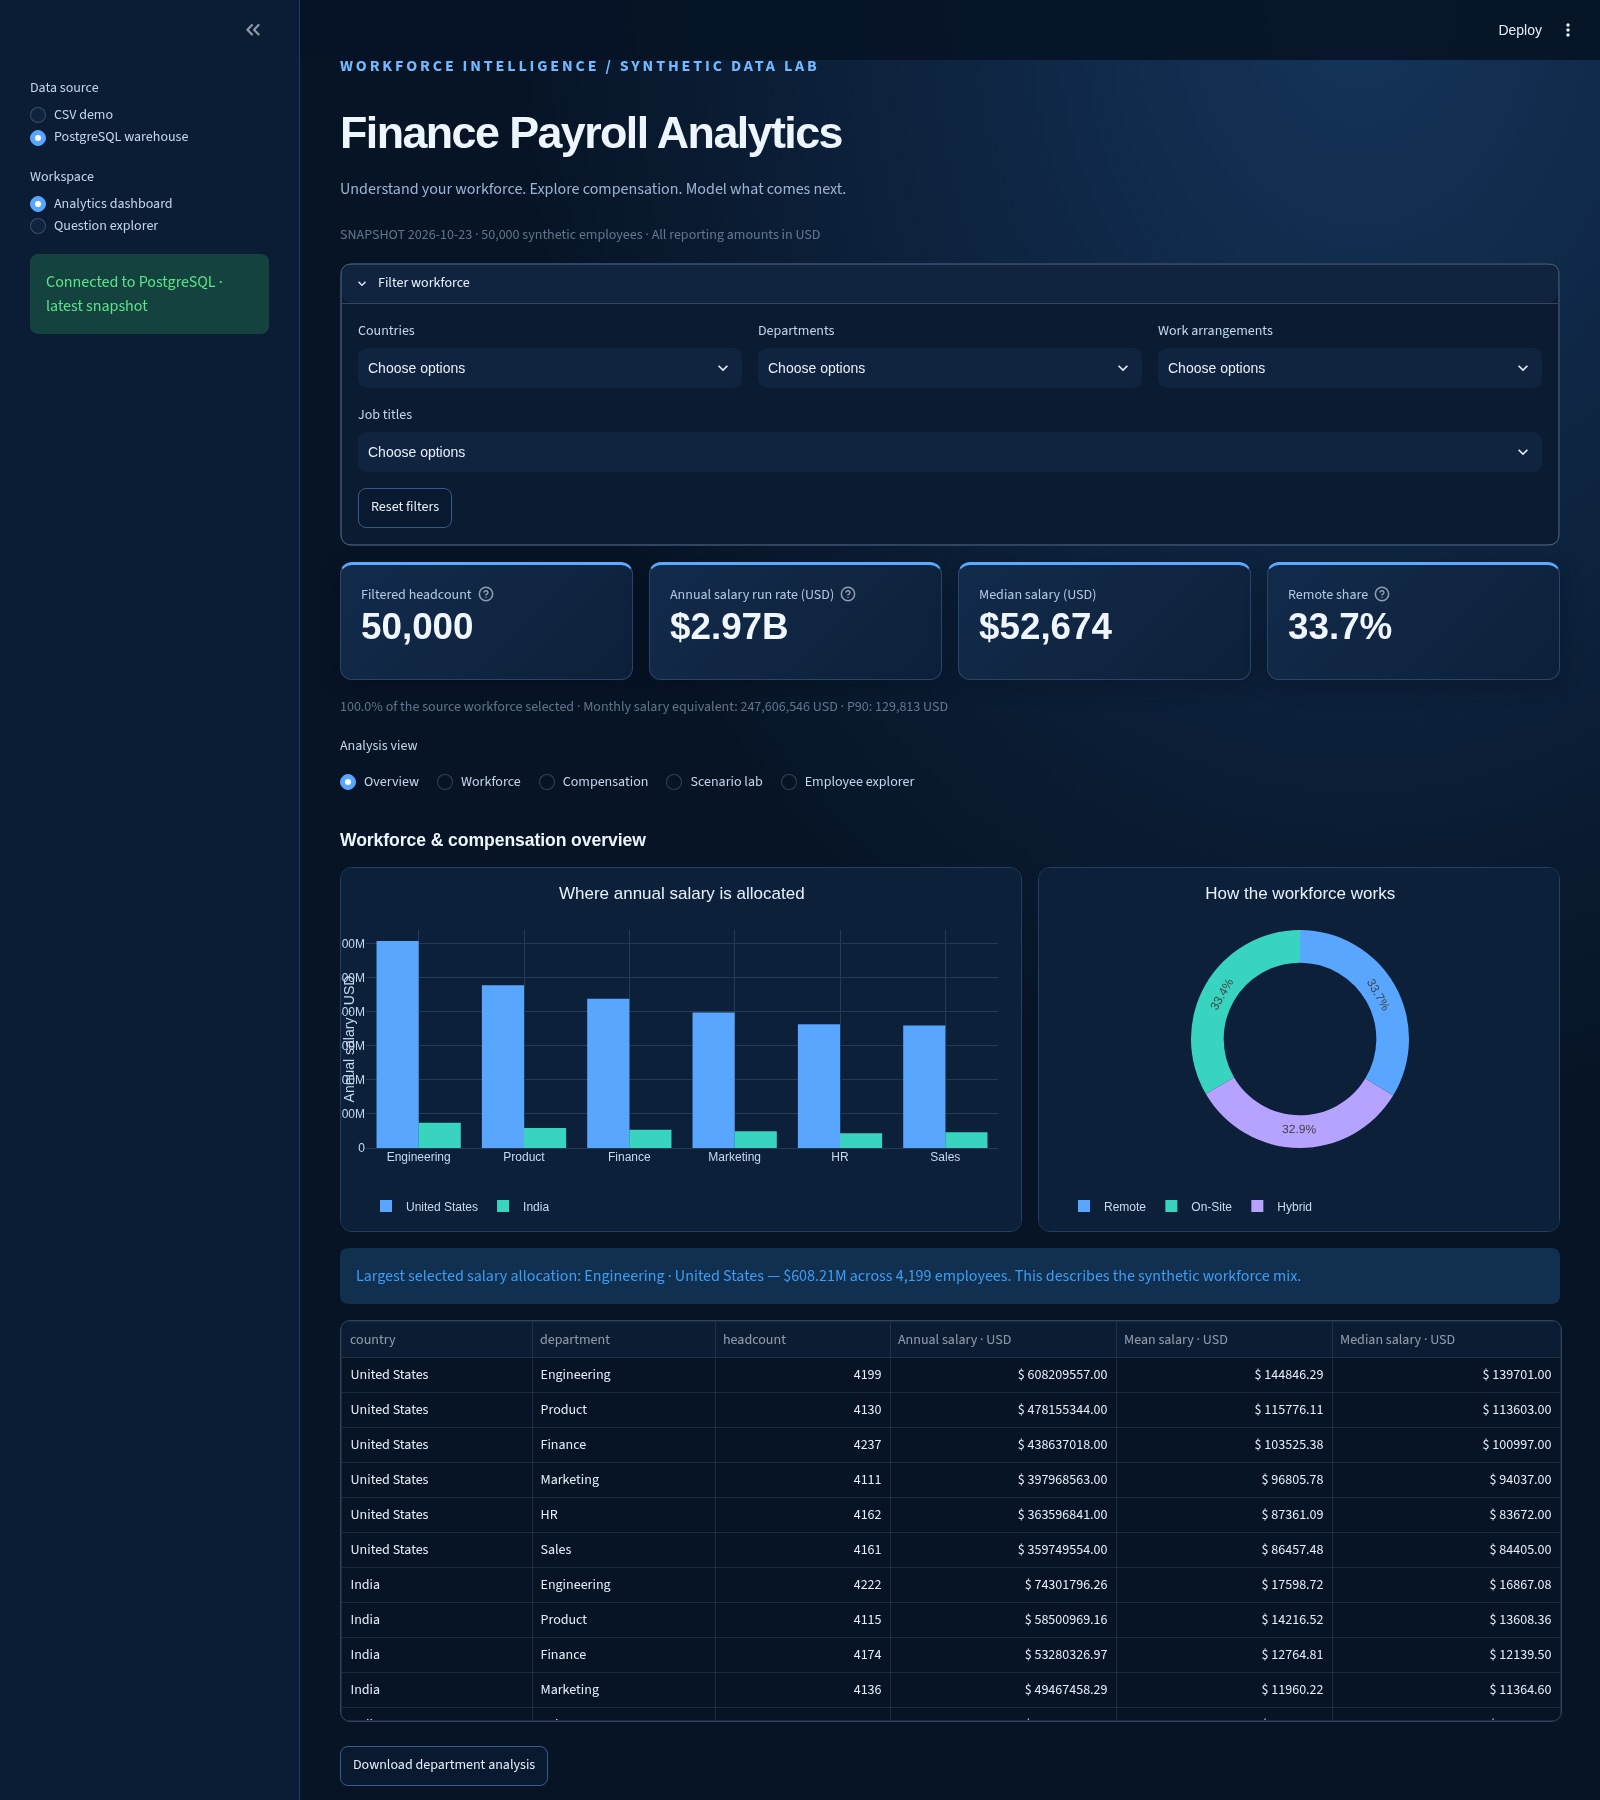
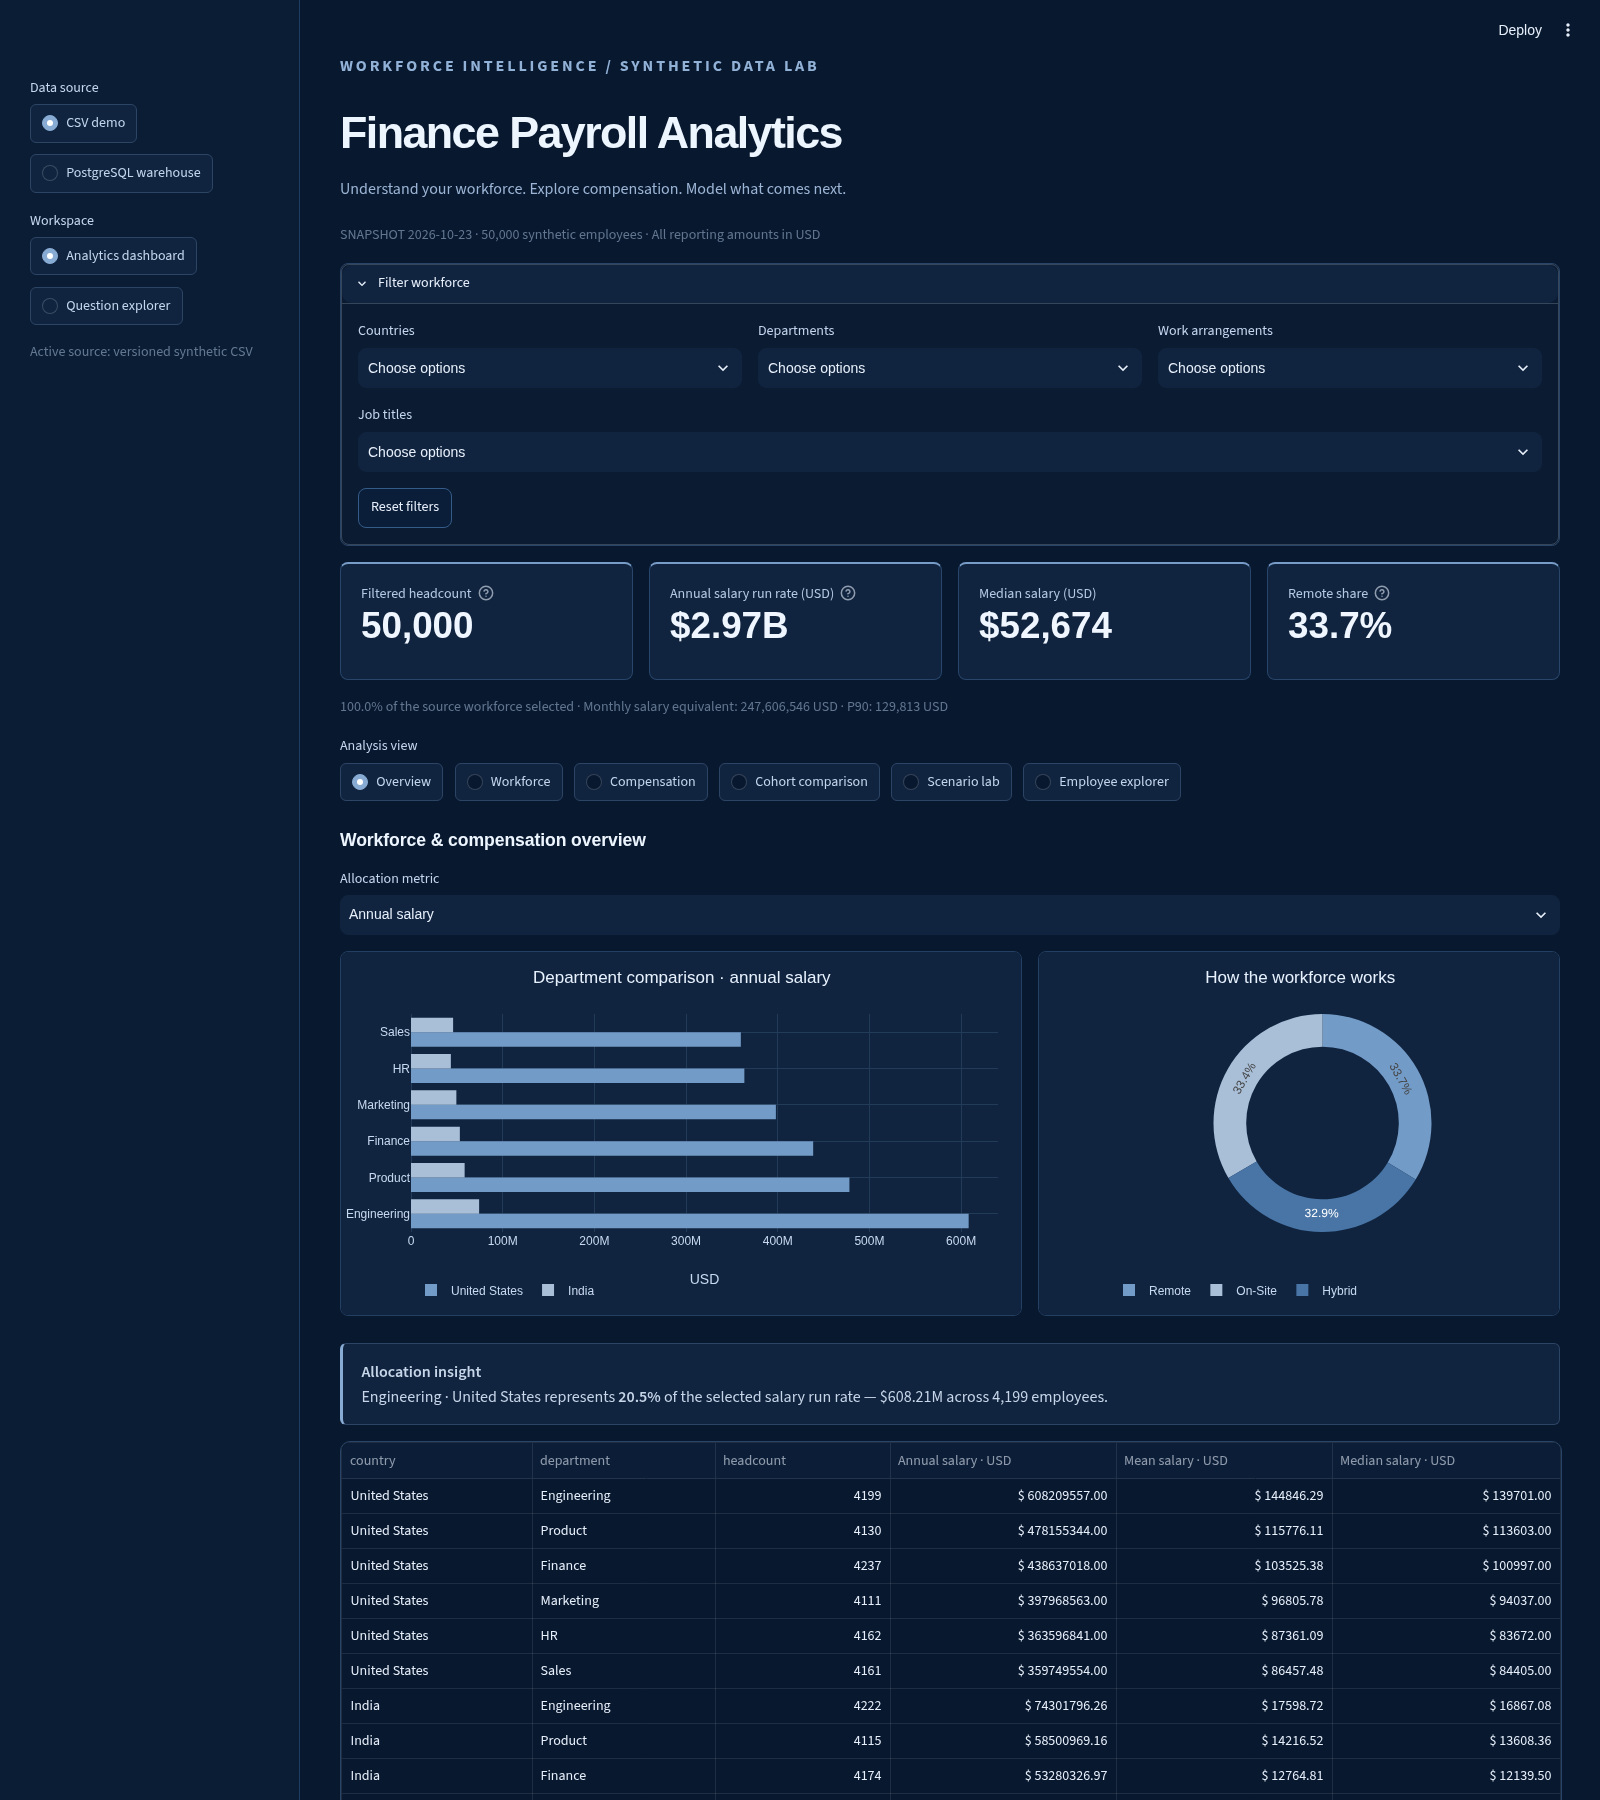
Apply flat navy dashboard styling and add cohort comparison analytics

diff --git a/app/style.css b/app/style.css
@@ -1,26 +1,26 @@
 :root { color-scheme: dark; }
 .stApp {
-    background: radial-gradient(ellipse at 85% 0%, #14345a 0%, transparent 44%), #071426;
+    background: #08182f;
     color: #e7effa;
     font-family: Inter, "Segoe UI", Arial, sans-serif;
 }
 [data-testid="stSidebar"] { background: #0b1d34; border-right: 1px solid #203c60; }
-[data-testid="stHeader"] { background: rgba(7,20,38,.92); }
+[data-testid="stHeader"] { background: #08182f; }
 .block-container { max-width: 1640px; padding: 2.3rem 2.5rem 3rem; }
 h1, h2, h3 { font-family: Inter, "Segoe UI", Arial, sans-serif !important; letter-spacing: -.035em; color: #edf5ff !important; }
 h1 { font-size: clamp(1.8rem, 3vw, 2.8rem) !important; font-weight: 750 !important; margin-bottom: .25rem; }
 h2 { font-size: 1.5rem !important; } h3 { font-size: 1.1rem !important; }
 .subtitle { color: #9cb5d5; font-size: .98rem; margin-bottom: 1.4rem; }
-.eyebrow { color: #72b9ff; text-transform: uppercase; font-size: .7rem; letter-spacing: .18em; font-weight: 700; margin: 0 0 .5rem; }
+.eyebrow { color: #91b1d7; text-transform: uppercase; font-size: .7rem; letter-spacing: .18em; font-weight: 700; margin: 0 0 .5rem; }
 [data-testid="stMetric"] {
-    background: linear-gradient(135deg, #122b4b, #0d2039);
-    border: 1px solid #29466a; border-top: 3px solid #5aaaff;
-    border-radius: 12px; padding: 1.1rem 1.25rem; min-height: 118px;
-    box-shadow: 0 6px 22px #02091240;
+    background: #10243f;
+    border: 1px solid #29466a; border-top: 2px solid #779cc7;
+    border-radius: 8px; padding: 1.1rem 1.25rem; min-height: 118px;
+    box-shadow: none;
 }
 [data-testid="stMetricLabel"] { color: #b4c9e4; font-size: .82rem; }
 [data-testid="stMetricValue"] { color: #f0f6ff; font-size: clamp(1.65rem,2.4vw,2.3rem); font-weight: 650; }
-[data-testid="stExpander"] { border: 1px solid #294466; border-radius: 12px; background: #0b1c32; }
+[data-testid="stExpander"] { border: 1px solid #294466; border-radius: 8px; background: #0b1c32; }
 [data-testid="stExpander"] summary { background: #102440; border-radius: 10px; }
 [data-testid="stRadio"] label, [data-testid="stMultiSelect"] label,
 [data-testid="stSelectbox"] label, [data-testid="stSlider"] label { color: #c4d6ee !important; }
@@ -30,12 +30,27 @@ input, textarea { color: #e7effa !important; -webkit-text-fill-color: #e7effa !i
     border-radius: 8px; border-color: #355b89; font-weight: 600;
 }
 [data-testid="stButton"] button[kind="primary"] { background: #2c7ed6; color: #fff; }
-[data-testid="stPlotlyChart"] { border: 1px solid #233f61; border-radius: 12px; overflow: hidden; }
+[data-testid="stPlotlyChart"] { border: 1px solid #233f61; border-radius: 8px; overflow: hidden; }
 [data-testid="stDataFrame"] { border: 1px solid #294466; border-radius: 10px; overflow: hidden; }
 [data-testid="stCaptionContainer"] { color: #9db4d0; }
-.agent-message { background: #102947; border: 1px solid #31537c; padding: 1.2rem; border-radius: 12px; margin-bottom: 1rem; }
+.agent-message { background: #102947; border: 1px solid #31537c; padding: 1.2rem; border-radius: 8px; margin-bottom: 1rem; }
 hr { border-color: #25405f !important; }
 @media (max-width: 760px) {
     .block-container { padding: 1.2rem 1rem; }
     [data-testid="stMetric"] { min-height: 98px; padding: .8rem; }
 }
+
+/* Solid surfaces throughout: no gradients, glow, transparency or glass effects. */
+[data-testid="stMetric"], [data-testid="stExpander"],
+[data-testid="stPlotlyChart"], [data-testid="stDataFrame"],
+[data-testid="stButton"] button, [data-testid="stDownloadButton"] button {
+    box-shadow: none !important;
+    background-image: none !important;
+    backdrop-filter: none !important;
+}
+[data-testid="stRadio"] [role="radiogroup"] { gap: .7rem; }
+[data-testid="stRadio"] [role="radiogroup"] label {
+    padding: .45rem .7rem; border: 1px solid #2d4565;
+    border-radius: 6px; background: #10243f;
+}
+.insight-card { background: #10243f; border: 1px solid #2d4565; border-left: 3px solid #88abd3; border-radius: 6px; padding: .9rem 1.15rem; margin: .7rem 0 1rem; color: #c6d5e8; }

diff --git a/app/reporting.py b/app/reporting.py
@@ -84,17 +84,28 @@ def compact_money(value):
     return f"${value:,.0f}"
 
 
+def cohort_comparison(frame, department):
+    selected = frame[frame.department.eq(department)]
+    return selected.groupby("country", as_index=False).agg(
+        headcount=("employee_id", "count"),
+        annual_payroll_usd=("annual_salary_usd", "sum"),
+        mean_salary_usd=("annual_salary_usd", "mean"),
+        median_salary_usd=("annual_salary_usd", "median"),
+        p90_salary_usd=("annual_salary_usd", lambda values: values.quantile(0.9)),
+    )
+
+
 def chart(figure):
     import streamlit as st
 
     figure.update_layout(
-        paper_bgcolor="#0c2039",
-        plot_bgcolor="#0c2039",
+        paper_bgcolor="#10243f",
+        plot_bgcolor="#10243f",
         font={"color": "#c8daf1", "family": "Segoe UI, Arial"},
         title_font={"size": 17, "color": "#e8f2ff"},
         margin={"l": 70, "r": 25, "t": 62, "b": 30},
         height=365,
-        colorway=["#58a6ff", "#38d4c0", "#b6a2ff", "#ffc76c", "#f284a7"],
+        colorway=["#739bc7", "#a9bfd8", "#4875a6", "#c1d2e5", "#345a83"],
         legend={"orientation": "h", "y": -0.2, "title_text": ""},
     )
     figure.update_xaxes(gridcolor="#223b59", zerolinecolor="#223b59")
@@ -158,25 +169,46 @@ def render_overview(frame):
     )
     view = st.radio(
         "Analysis view",
-        ["Overview", "Workforce", "Compensation", "Scenario lab", "Employee explorer"],
+        [
+            "Overview",
+            "Workforce",
+            "Compensation",
+            "Cohort comparison",
+            "Scenario lab",
+            "Employee explorer",
+        ],
         horizontal=True,
     )
-    palette = {"United States": "#58a6ff", "India": "#38d4c0"}
+    palette = {"United States": "#739bc7", "India": "#a9bfd8"}
     groups = department_summary(filtered)
     if view == "Overview":
         st.subheader("Workforce & compensation overview")
+        metric_label = st.selectbox(
+            "Allocation metric", ["Annual salary", "Headcount", "Median salary"]
+        )
+        metric_column = {
+            "Annual salary": "annual_payroll_usd",
+            "Headcount": "headcount",
+            "Median salary": "median_salary_usd",
+        }[metric_label]
         left, right = st.columns([1.3, 1])
         with left:
+            order = groups.groupby("department")[metric_column].sum().sort_values().index.tolist()
             chart(
                 px.bar(
                     groups,
-                    x="department",
-                    y="annual_payroll_usd",
+                    y="department",
+                    x=metric_column,
                     color="country",
+                    orientation="h",
                     barmode="group",
                     color_discrete_map=palette,
-                    title="Where annual salary is allocated",
-                    labels={"department": "", "annual_payroll_usd": "Annual salary · USD"},
+                    category_orders={"department": order},
+                    title=f"Department comparison · {metric_label.lower()}",
+                    labels={
+                        "department": "",
+                        metric_column: "Employees" if metric_column == "headcount" else "USD",
+                    },
                 )
             )
         with right:
@@ -188,12 +220,16 @@ def render_overview(frame):
                     values="employees",
                     hole=0.7,
                     title="How the workforce works",
-                    color_discrete_sequence=["#58a6ff", "#38d4c0", "#b6a2ff"],
+                    color_discrete_sequence=["#739bc7", "#a9bfd8", "#4875a6"],
                 )
             )
         leading = groups.iloc[0]
-        st.info(
-            f"Largest selected salary allocation: {leading['department']} · {leading['country']} — {compact_money(leading['annual_payroll_usd'])} across {leading['headcount']:,} employees. This describes the synthetic workforce mix."
+        from html import escape
+
+        share = leading["annual_payroll_usd"] / metrics["annual_payroll_usd"]
+        st.markdown(
+            f"<div class='insight-card'><strong>Allocation insight</strong><br>{escape(str(leading['department']))} · {escape(str(leading['country']))} represents <strong>{share:.1%}</strong> of the selected salary run rate — {compact_money(leading['annual_payroll_usd'])} across {leading['headcount']:,} employees.</div>",
+            unsafe_allow_html=True,
         )
         st.dataframe(
             groups,
@@ -322,6 +358,49 @@ def render_overview(frame):
             "Download compensation review",
             reviewed[columns].to_csv(index=False),
             "compensation_review.csv",
+            "text/csv",
+        )
+    elif view == "Cohort comparison":
+        st.subheader("Compare country cohorts")
+        st.caption(
+            "Compare the same department across countries within the active filters. Differences reflect synthetic role mixes and fixed currency conversion, not pay-equity findings."
+        )
+        department = st.selectbox("Comparison department", sorted(filtered.department.unique()))
+        compared = cohort_comparison(filtered, department)
+        left, right = st.columns(2)
+        with left:
+            chart(
+                px.bar(
+                    compared,
+                    x="country",
+                    y="median_salary_usd",
+                    color="country",
+                    color_discrete_map=palette,
+                    title="Median salary · matched department",
+                    labels={"country": "", "median_salary_usd": "USD"},
+                )
+            )
+        with right:
+            chart(
+                px.bar(
+                    compared,
+                    x="country",
+                    y="p90_salary_usd",
+                    color="country",
+                    color_discrete_map=palette,
+                    title="P90 salary · matched department",
+                    labels={"country": "", "p90_salary_usd": "USD"},
+                )
+            )
+        if len(compared) < 2:
+            st.info(
+                "Only one country is in the current selection. Include both countries to compare cohorts."
+            )
+        st.dataframe(compared, width="stretch", hide_index=True)
+        st.download_button(
+            "Download cohort comparison",
+            compared.to_csv(index=False),
+            "cohort_comparison.csv",
             "text/csv",
         )
     elif view == "Scenario lab":

diff --git a/tests/test_reporting.py b/tests/test_reporting.py
@@ -132,3 +132,33 @@ def test_public_demo_survives_unavailable_postgres(monkeypatch, failure):
     assert not any("Connected to PostgreSQL" in item.value for item in at.success)
     next(w for w in at.radio if w.label == "Analysis view").set_value("Scenario lab").run()
     assert not at.exception and not at.error
+
+
+def test_cohort_comparison_reconciles_and_renders():
+    from app.reporting import cohort_comparison
+
+    frame = load_employee_data()
+    compared = cohort_comparison(frame, "Engineering")
+    assert set(compared.country) == {"India", "United States"}
+    assert compared.headcount.sum() == frame.department.eq("Engineering").sum()
+    for row in compared.itertuples():
+        salaries = frame.loc[
+            frame.country.eq(row.country) & frame.department.eq("Engineering"), "annual_salary_usd"
+        ]
+        assert row.median_salary_usd == pytest.approx(salaries.median())
+        assert row.p90_salary_usd == pytest.approx(salaries.quantile(0.9))
+    at = AppTest.from_file(str(ROOT / "app/dashboard.py"), default_timeout=30).run()
+    next(w for w in at.radio if w.label == "Analysis view").set_value("Cohort comparison").run()
+    assert not at.exception and not at.error
+    assert len(at.dataframe[0].value) == 2
+    next(w for w in at.multiselect if w.label == "Countries").set_value(["India"]).run()
+    assert not at.exception and not at.error
+    assert any("Only one country" in x.value for x in at.info)
+
+
+def test_overview_allocation_metrics():
+    at = AppTest.from_file(str(ROOT / "app/dashboard.py"), default_timeout=30).run()
+    for metric in ["Headcount", "Median salary", "Annual salary"]:
+        next(w for w in at.selectbox if w.label == "Allocation metric").set_value(metric).run()
+        assert not at.exception and not at.error
+        assert at.dataframe[0].value.headcount.sum() == 50000

diff --git a/README.md b/README.md
@@ -22,13 +22,14 @@ The data represents a single snapshot dated **23 October 2026**. Salaries and po
 
 ## Streamlit dashboard
 
-The dashboard uses a **dark navy and blue theme** with shared filters, KPI cards and interactive charts. It supports both the versioned CSV dataset and the latest PostgreSQL warehouse snapshot.
+The dashboard uses a **flat navy blue theme** with shared filters, KPI cards and interactive charts. It supports both the versioned CSV dataset and the latest PostgreSQL warehouse snapshot.
 
 | Workspace | Purpose |
 |---|---|
 | Overview | Summarizes selected headcount, salary allocation, compensation statistics and work arrangements. |
 | Workforce | Explores employee distribution across cities, departments and job titles. |
 | Compensation | Shows salary distributions, median salary comparisons and cohort-based review candidates. |
+| Cohort comparison | Compares headcount, median salary and P90 salary for the same department across countries. |
 | Scenario lab | Models hypothetical salary adjustments for the selected workforce without changing source records. |
 | Employee explorer | Provides employee ID and job-title search, salary filters, sorting, pagination and exports without names or email addresses. |
 
